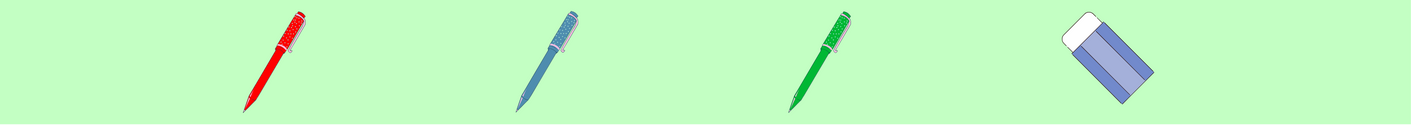
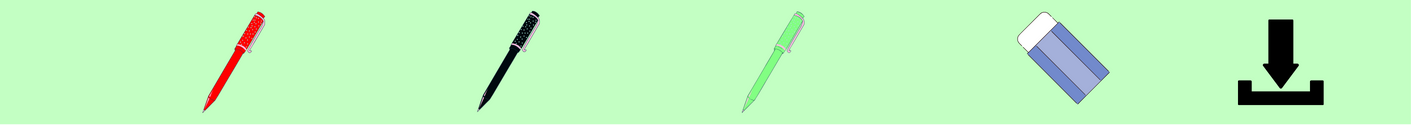
added save button

diff --git a/virtualpainter2.py b/virtualpainter2.py
@@ -4,123 +4,132 @@ import time
 import os
 import handtrackingmodule2 as htm
 
-brushThickness=20
-eraserThickness=100
+brushThickness = 20
+eraserThickness = 100
 
-folderPath = "D:\Elrich Miranda\Documents\Programs\ip-project\header"
+folderPath = "C:\\Users\\jason\\Documents\\VS Code Programs\\ip-project\\header"
 
-myList=os.listdir(folderPath)
+myList = os.listdir(folderPath)
 print(myList)
-overlayList=[]
+overlayList = []
 
 for imPath in myList:
-    image=cv2.imread(f'{folderPath}/{imPath}')
+    image = cv2.imread(f'{folderPath}/{imPath}')
     overlayList.append(image)
 
 print(len(overlayList))
 
-header=overlayList[0]
+header = overlayList[0]
 
-drawColor=(255,0,0)
+drawColor = (255, 0, 0)
 
-cap =cv2.VideoCapture(0)
-cap.set(3,1280)
-cap.set(4,720)
+cap = cv2.VideoCapture(0)
+cap.set(3, 1280)
+cap.set(4, 720)
 
-detector=htm.HandDetectorMP(detection_con=0.85)
+detector = htm.HandDetectorMP(detection_con=0.85)
 
-#initial points
-xp,yp=0,0
+# initial points
+xp, yp = 0, 0
 
-imgCanvas=np.zeros((720,1280,3),np.uint8)
+imgCanvas = np.zeros((720, 1280, 3), np.uint8)
 
+save_canvas = False  # Flag to determine whether to save the canvas
 
 while True:
+    # Import image
+    success, img = cap.read()
+    img = cv2.flip(img, 1)
 
-    #import image
-    success, img=cap.read()
+    # Find hand landmarks
+    img = detector.find_hands(img)
+    lm_list = detector.find_position(img, draw=True)
 
+    if len(lm_list) != 0:
+        # Tip of index and middle finger
+        x1, y1 = lm_list[8][1:]
+        x2, y2 = lm_list[12][1:]
 
-
-    #find hand landmarks
-
-    img=detector.find_hands(img)
-    lm_list=detector.find_position(img,draw=True)
-
-    if len(lm_list)!=0:
-        #print(lm_list)
-
-        #tip of index and middle finger
-        x1,y1=lm_list[8][1:]
-        x2,y2=lm_list[12][1:]
-
-        #check which fingers are up 
-        fingers=detector.fingers_up()
+        # Check which fingers are up
+        fingers = detector.fingers_up()
         print(fingers)
 
-        #check if 2 fingers are up  (selection mode)
-        if fingers[1] and fingers[2]:
-            print("Selection Mode")
-            xp,yp=0,0
+        # Check if thumb and pinky finger are up for saving canvas
+        if len(fingers) >= 5:  # Ensure fingers list has enough elements
+            if fingers[0] and not fingers[4]:
+                print("Thumb up")
+                save_canvas = True
+            elif not fingers[0] and fingers[4]:
+                print("Pinky up")
+                save_canvas = False
 
-            #clicking the header
-            if y1<125:
-                if 250<x1<450:
-                    header=overlayList[1]
-                    drawColor=(0,0,255)
+        # Check if 2 fingers are up (selection mode)
+        if len(fingers) >= 3:  # Ensure fingers list has enough elements
+            if fingers[1] and fingers[2]:
+                print("Selection Mode")
+                xp, yp = 0, 0
 
-    
-                elif 550<x1<750:
-                    header=overlayList[2]
-                    drawColor=(255,0,0)
+                # Clicking the header
+                if y1 < 125:
+                    if 200 < x1 < 400:
+                        header = overlayList[0]
+                        drawColor = (255, 0, 0)
+                    elif 500 < x1 < 700:
+                        header = overlayList[1]
+                        drawColor = (0, 0, 255)
+                    elif 750 < x1 < 900:
+                        header = overlayList[2]
+                        drawColor = (0, 255, 0)
+                    elif 1000 < x1 < 1150:
+                        header = overlayList[3]
+                        drawColor = (0, 0, 0)
+                    elif 1250 < x1 < 1450:
+                        header = overlayList[4]
+                        if save_canvas:
+                            cv2.imwrite("C:\\Users\\jason\\Documents\\VS Code Programs\\ip-project\\canvas\\canvas.png", imgCanvas)
+                            save_canvas = False
+                            print("Canvas saved!")
+                            # Prompt box
+                            cv2.rectangle(img, (400, 200), (880, 400), (0, 255, 0), cv2.FILLED)
+                            cv2.putText(img, "Canvas Saved!", (420, 340), cv2.FONT_HERSHEY_SIMPLEX, 2, (255, 255, 255), 5, cv2.LINE_AA)
 
+                cv2.rectangle(img, (x1, y1 - 25), (x2, y2 + 25), drawColor, cv2.FILLED)
 
-                elif 800<x1<950:
-                    header=overlayList[3]
-                    drawColor=(0,255,0)
+        # Only index finger is up aka (drawing mode)
+        if len(fingers) >= 3:  # Ensure fingers list has enough elements
+            if fingers[1] and not fingers[2]:
+                print("Drawing mode")
 
-                
-                elif 1050<x1<1200:
-                    header=overlayList[4]
-                    drawColor=(0,0,0)
-            cv2.rectangle(img,(x1,y1-25),(x2,y2+25),drawColor,cv2.FILLED)
-                
+                if xp == 0 and yp == 0:
+                    xp, yp = x1, y1
 
+                if drawColor == (0, 0, 0):
+                    cv2.line(img, (xp, yp), (x1, y1), drawColor, eraserThickness)
+                    cv2.line(imgCanvas, (xp, yp), (x1, y1), drawColor, eraserThickness)
+                else:
+                    cv2.line(img, (xp, yp), (x1, y1), drawColor, brushThickness)
+                    cv2.line(imgCanvas, (xp, yp), (x1, y1), drawColor, brushThickness)
 
+                xp, yp = x1, y1
 
-        #only index finger is up aka (drawing mode)
-        if fingers[1] and fingers[2]==False:
-            #cv2.circle(img, (x1, y1), 8, drawColor, cv2.FILLED)
-
-            print("Drawing mode")
-
-            if xp==0 and yp ==0:
-                xp,yp=x1,y1
-
-            if drawColor==(0,0,0):
-                cv2.line(img,(xp,yp),(x1,y1),drawColor,eraserThickness)
-                cv2.line(imgCanvas,(xp,yp),(x1,y1),drawColor,eraserThickness)
-            else:
-                cv2.line(img,(xp,yp),(x1,y1),drawColor,brushThickness)
-                cv2.line(imgCanvas,(xp,yp),(x1,y1),drawColor,brushThickness)
-
-            xp,yp=x1,y1
-
-    imgGray=cv2.cvtColor(imgCanvas,cv2.COLOR_BGR2GRAY)
+    # Create mask and combine images
+    imgGray = cv2.cvtColor(imgCanvas, cv2.COLOR_BGR2GRAY)
     _, imgInv = cv2.threshold(imgGray, 50, 255, cv2.THRESH_BINARY_INV)
-    imgInv=cv2.cvtColor(imgInv,cv2.COLOR_GRAY2BGR)
-    img = cv2.bitwise_and(img,imgInv)
-    img = cv2.bitwise_or(img,imgCanvas)
+    imgInv = cv2.cvtColor(imgInv, cv2.COLOR_GRAY2BGR)
+    img = cv2.bitwise_and(img, imgInv)
+    img = cv2.bitwise_or(img, imgCanvas)
 
-
-
-    #overlaying the header
+    # Overlay the header
     resizedHeader = cv2.resize(header, (1280, 125))
+    img[0:125, 0:1280] = resizedHeader
 
-    img[0:125,0:1280]=resizedHeader
+    # Show images
+    cv2.imshow("Image", img)
+    cv2.imshow("Canvas", imgCanvas)
 
-    #img=cv2.addWeighted(img,0.5,imgCanvas,0.5)
-    cv2.imshow("Image",img)
-    cv2.imshow("Canvas",imgCanvas)
-    cv2.waitKey(1)
+    # Wait for key press
+    if cv2.waitKey(1) & 0xFF == ord('q'):
+        break
 
+cv2.destroyAllWindows()
+cap.release()

diff --git a/basics.py b/basics.py
@@ -4,6 +4,7 @@ import time
 
 cap = cv2.VideoCapture(0)
 
+
 mpHands = mp.solutions.hands
 hands = mpHands.Hands()
 mpDraw = mp.solutions.drawing_utils
@@ -13,6 +14,7 @@ cTime = 0
 
 while True:
     success, img = cap.read()
+    img=cv2.flip(img,1)
     imgRGB = cv2.cvtColor(img, cv2.COLOR_BGR2RGB)
     results = hands.process(imgRGB)
     # print(results.multi_hand_landmarks)

diff --git a/ocr.py b/ocr.py
@@ -1,0 +1,7 @@
+import easyocr
+
+reader = easyocr.Reader(['en']) # specify the language
+result = reader.readtext('image.jpg')
+
+for (bbox, text, prob) in result:d
+    print(f'Text: {text}, Probability: {prob}')

diff --git a/tempzgrchoqh.py b/tempzgrchoqh.py
@@ -1,0 +1,2 @@
+
+    # print(results.multi_hand_landmarks)
